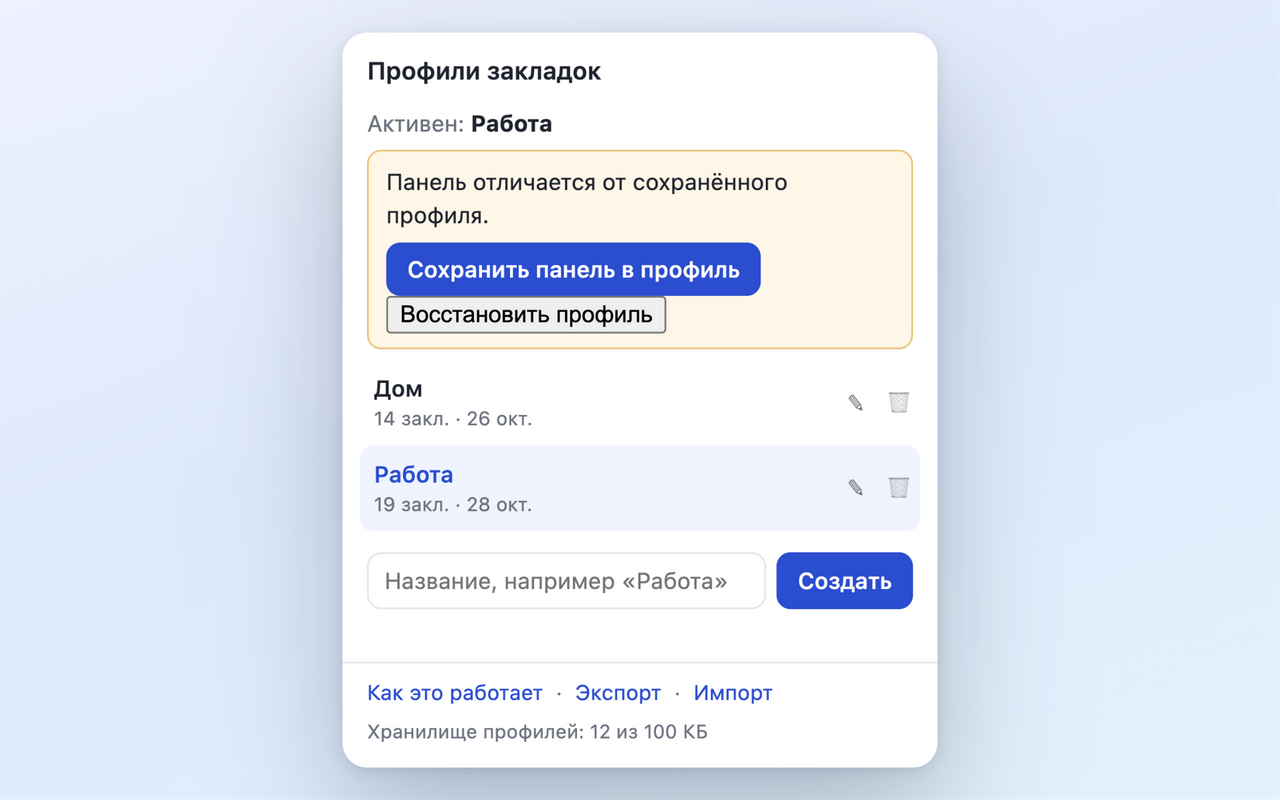
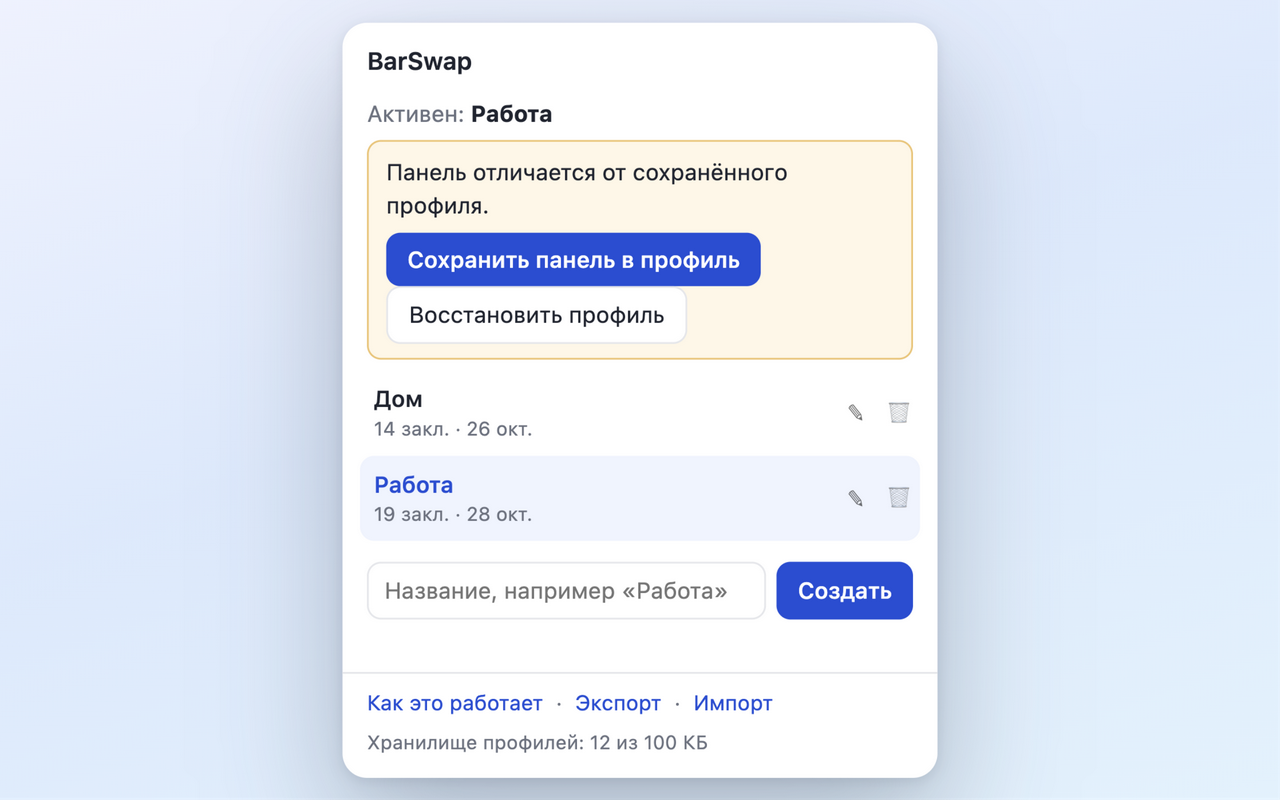
Rebrand to BarSwap (localized names, listing texts, screenshots, repo link)

diff --git a/background.js b/background.js
@@ -148,7 +148,7 @@ async function exportData() {
     const profile = await getProfile(id);
     if (profile) out.push({ name: profile.name, nodes: profile.nodes });
   }
-  return JSON.stringify({ app: 'bookmark-profiles', version: 1, exported: new Date().toISOString(), profiles: out }, null, 2);
+  return JSON.stringify({ app: 'barswap', version: 1, exported: new Date().toISOString(), profiles: out }, null, 2);
 }
 
 async function importData(text) {

diff --git a/tools/demo.html b/tools/demo.html
@@ -2,7 +2,7 @@
 <html lang="en">
 <head>
   <meta charset="utf-8">
-  <title>Демо попапа «Профили закладок»</title>
+  <title>Демо попапа BarSwap</title>
   <!--
     Демо-страница попапа для скриншотов листинга Chrome Web Store.
     Параметры: ?state=normal|diff|empty и ?lang=en|ru.

diff --git a/popup/popup.js b/popup/popup.js
@@ -200,7 +200,7 @@ async function onExport() {
     const url = URL.createObjectURL(blob);
     const a = document.createElement('a');
     a.href = url;
-    a.download = 'bookmark-profiles.json';
+    a.download = 'barswap-profiles.json';
     document.body.appendChild(a);
     a.click();
     a.remove();

diff --git a/docs/store-listing.md b/docs/store-listing.md
@@ -1,4 +1,4 @@
-# Публикация в Chrome Web Store — шпаргалка
+# Публикация BarSwap в Chrome Web Store — шпаргалка
 
 Всё готово к загрузке. Ниже — готовые тексты на двух языках (копировать/вставить) и шаги.
 
@@ -6,24 +6,31 @@
 
 1. Откройте [Chrome Web Store Developer Dashboard](https://chrome.google.com/webstore/devconsole) под вашим Google-аккаунтом.
 2. При первом входе: подтвердите согласие с условиями и заплатите **разовый взнос $5** (картой; действует на все будущие расширения).
-3. Кнопка **«+ Новый элемент»** → загрузите файл **`bookmark-profiles-webstore.zip`** (лежит рядом с папкой проекта).
+3. Кнопка **«+ Новый элемент»** → загрузите файл **`bookmark-profiles-webstore.zip`** (лежит рядом с папкой проекта; при желании переименуйте в `barswap-webstore.zip`).
 4. Заполните поля: сначала русский листинг (раздел ниже), затем добавьте английский — в списке полей найдите выбор языка и кнопку добавления языка, вставьте тексты из раздела «English listing».
 5. Внизу формы нажмите **«Отправить на проверку»**. Проверка обычно занимает от нескольких часов до нескольких дней.
 6. После одобрения установите расширение из магазина **на обоих компьютерах** (версия из магазина синхронизируется с аккаунтом сама) и удалите «распакованную», если ставили её.
 
 ## Листинг, русский (основной язык)
 
-- **Название:** Профили закладок — работа и дом
+- **Название:** BarSwap — переключение панелей закладок
 - **Краткое описание (до 132 знаков):**
-  Несколько наборов закладок на панели: на работе — одни, дома — другие, при одной учётной записи. Переключение в один клик.
+  Сколько угодно наборов закладок на панели — работа, дом, проекты. Переключение в один клик при одной учётной записи.
 - **Подробное описание:**
 
   ```
-  Свои закладки на работе, свои — дома, при одном аккаунте Google.
+  BarSwap — сколько угодно наборов закладок на панели при одном аккаунте Google.
+
+  Зачем:
+  • Работа и дом: на работе — рабочая панель, дома — личная, аккаунт один.
+  • Фриланс: отдельная панель под каждого клиента.
+  • Демонстрация экрана: «презентационная» чистая панель — личные закладки не светятся на созвонах и записях.
+  • Общий компьютер: детский режим с разрешёнными сайтами.
+  • Проекты и сезоны: «Ремонт», «Отпуск», «Поиск работы» — включил нужную панель и работай.
 
   Как работает:
   • Профили (наборы закладок) синхронизируются с вашим аккаунтом и доступны на всех компьютерах.
-  • Какой профиль активен — запоминается на каждом компьютере отдельно: на работе горит «Работа», дома — «Дом».
+  • Какой профиль активен — запоминается на каждом компьютере отдельно.
   • При переключении текущая панель автоматически сохраняется в свой профиль — правки не теряются.
 
   Возможности:
@@ -45,17 +52,24 @@
 
 ## English listing (добавить вторым языком в форме)
 
-- **Name:** Bookmark Profiles — work & home
+- **Name:** BarSwap — switch bookmark bars
 - **Summary (≤132 chars):**
-  Several bookmark bar sets under one Google account: work links at the office, personal ones at home. One-click switching.
+  As many bookmark bar sets as you need — work, home, projects. One-click switching under one Google account.
 - **Detailed description:**
 
   ```
-  Your work bookmarks at the office, your personal ones at home — under a single Google account.
+  BarSwap — as many bookmark bar sets as you like, under a single Google account.
+
+  Why:
+  • Work and home: the work bar at the office, the personal one at home — same account.
+  • Freelancing: a separate bar for every client.
+  • Screen sharing: a clean “presentation” bar, so personal bookmarks never show up in calls and recordings.
+  • Shared computer: a kids mode with only allowed sites.
+  • Projects and seasons: “Renovation”, “Vacation”, “Job hunt” — switch to the bar you need.
 
   How it works:
   • Profiles (bookmark sets) sync with your account and are available on every computer.
-  • Which profile is active is remembered per computer: “Work” at the office, “Home” at home.
+  • Which profile is active is remembered per computer.
   • On switching, the current bar is automatically saved back to its own profile — nothing is lost.
 
   Features:
@@ -82,7 +96,7 @@
   `docs/screenshots/screenshot-en-1.png`, `docs/screenshots/screenshot-en-2.png`.
   Русская пара лежит рядом (`screenshot-1.png`, `screenshot-2.png`) — если хотите, загрузите её вместо английской.
 - **Иконка 128×128:** `icons/icon128.png`
-- **Ссылка на сайт:** URL репозитория на GitHub (после публикации репозитория)
+- **Ссылка на сайт:** https://github.com/martiyanov/BarSwap
 - **Промо-изображения:** необязательны (маленькая плитка 440×280 может увеличить показы — можно сгенерировать позже)
 
 ## Вкладка «Конфиденциальность»
@@ -93,7 +107,7 @@
 - **Использование данных** (галочки «собираются/не собираются»):
   - Данные не собираются. Не продаются. Не передаются третьим лицам. Не используются для рекламы/кредитования/идентификации.
   - Расширение не совершает сетевых запросов; код открыт.
-- **Политика конфиденциальности (URL):** ссылка на `PRIVACY.md` в репозитории.
+- **Политика конфиденциальности (URL):** https://github.com/martiyanov/BarSwap/blob/main/PRIVACY.md
 
 ## Вкладка «Распространение»
 

diff --git a/README.md b/README.md
@@ -1,7 +1,10 @@
-# Профили закладок (Chrome-расширение)
+# BarSwap (Chrome-расширение)
 
-Несколько наборов закладок на панели закладок Chrome — одни на работе, другие
-дома — при **одной** учётной записи Google.
+Репозиторий: <https://github.com/martiyanov/BarSwap>
+
+Несколько наборов закладок на панели закладок Chrome — работа, дом, проекты,
+клиенты, «презентационная» панель для демонстрации экрана — при **одной**
+учётной записи Google.
 
 - **Наборы (профили) хранятся в `chrome.storage.sync`** — синхронизируются вместе
   с аккаунтом и одинаковы на всех компьютерах.
@@ -79,7 +82,7 @@ tools/demo.html    — демо попапа для скриншотов (?state
 
 ## English
 
-**Bookmark Profiles** — a Chrome extension (Manifest V3) that keeps several
+**BarSwap** — a Chrome extension (Manifest V3) that keeps several
 bookmark-bar sets under a single Google account: e.g. work links at the office,
 personal links at home.
 

diff --git a/PRIVACY.md b/PRIVACY.md
@@ -2,7 +2,7 @@
 
 ## Русский
 
-Расширение «Профили закладок»:
+Расширение BarSwap:
 
 - **Не собирает** аналитику, телеметрию или какие-либо данные о просмотренных страницах.
 - **Не отправляет** данные на серверы разработчика: в коде нет ни одного сетевого запроса.
@@ -16,7 +16,7 @@
 
 ## English
 
-The "Bookmark Profiles" extension:
+The "BarSwap" extension:
 
 - Collects **no** analytics, telemetry, or browsing data.
 - Makes **no** network requests: the code contains none.
